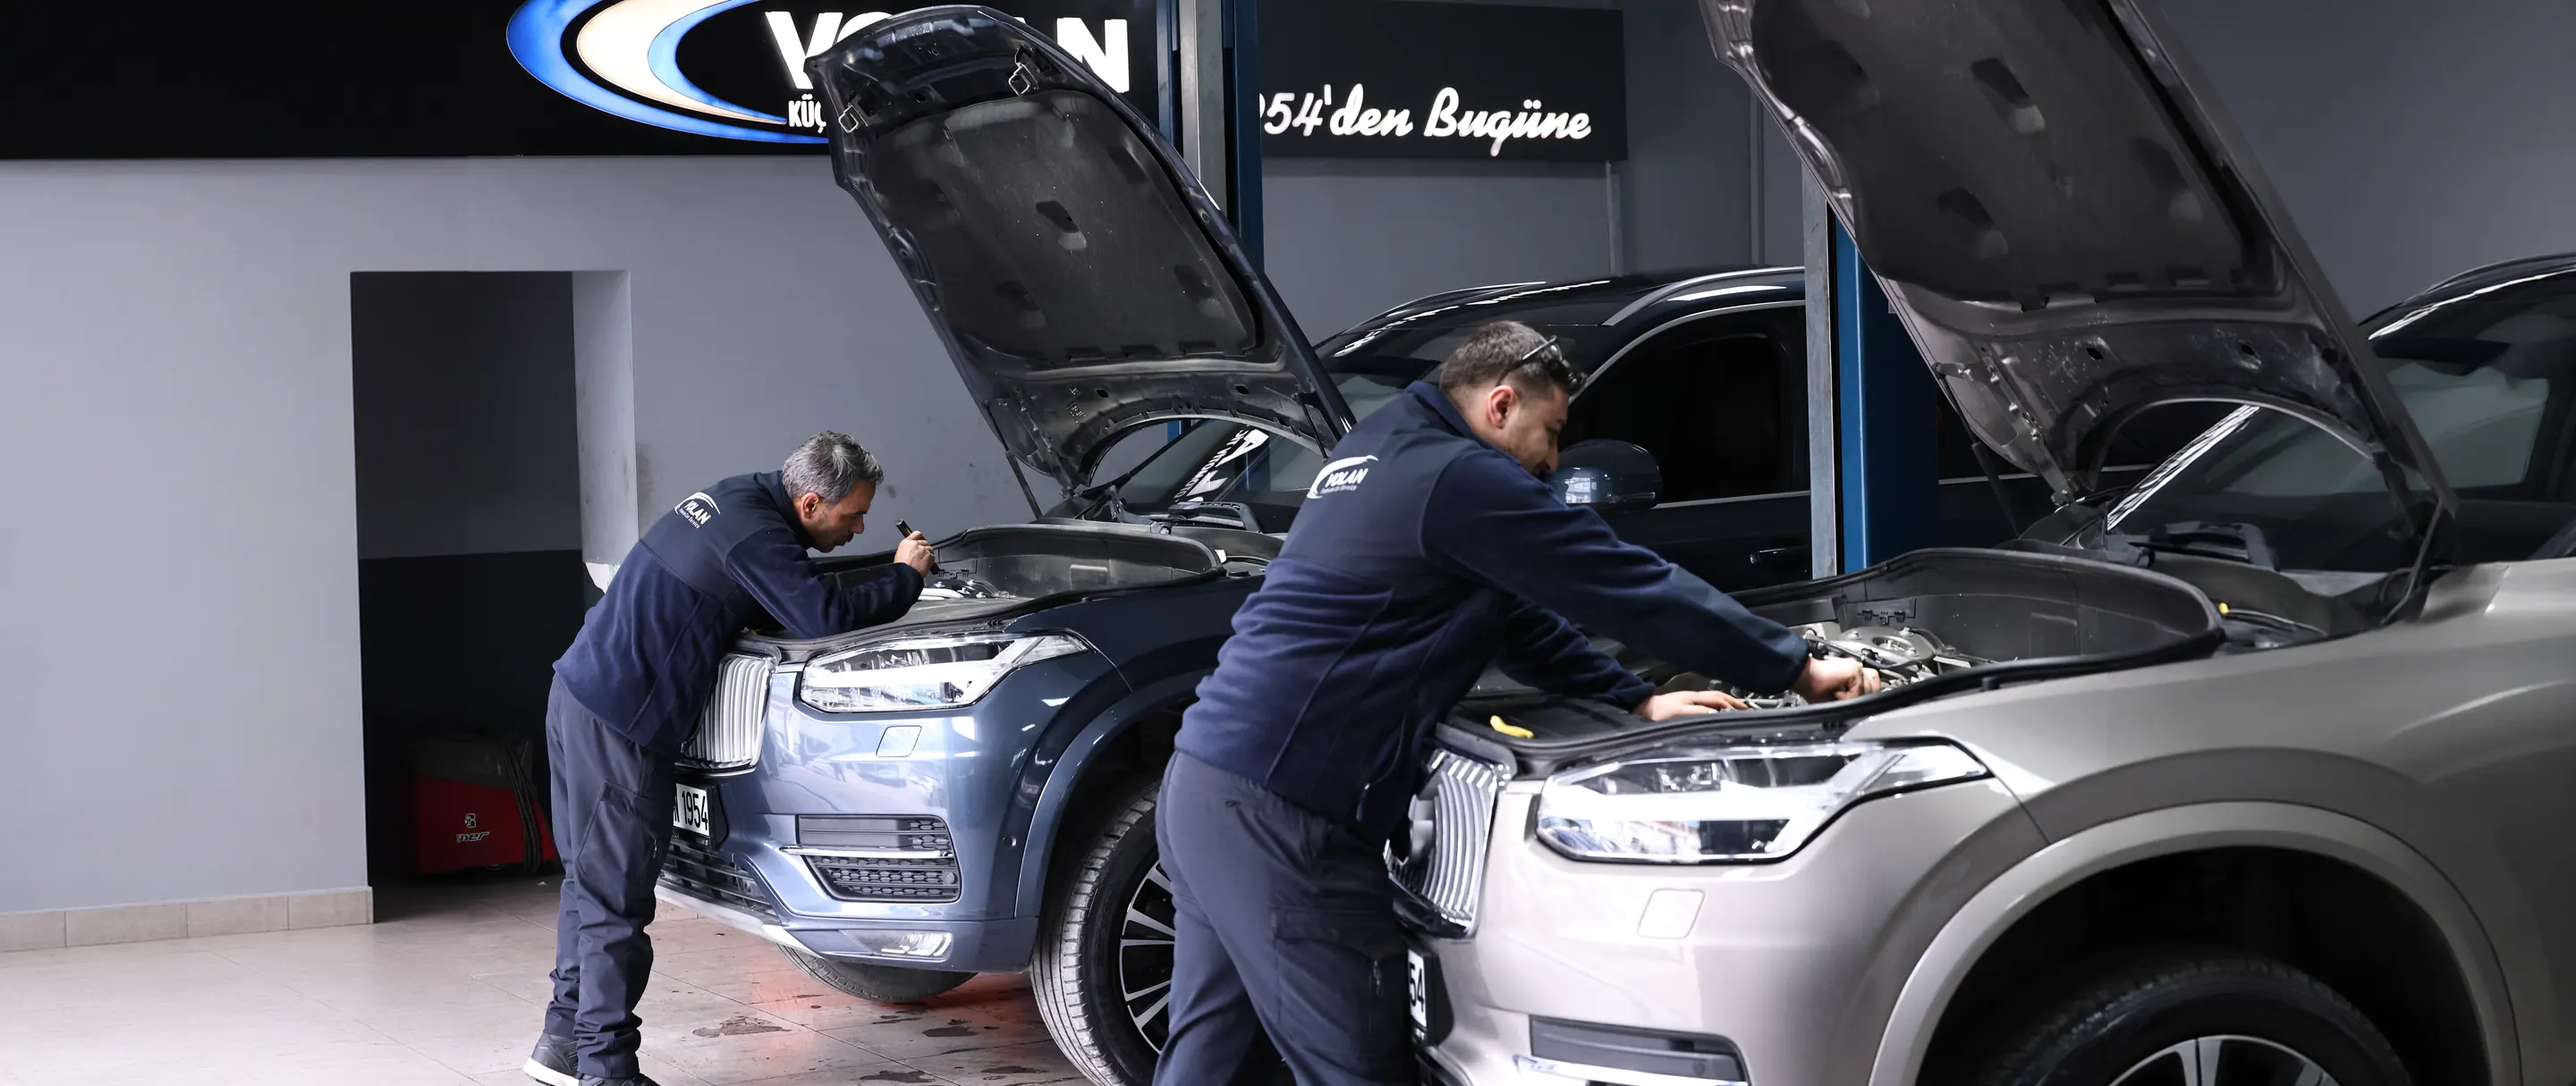
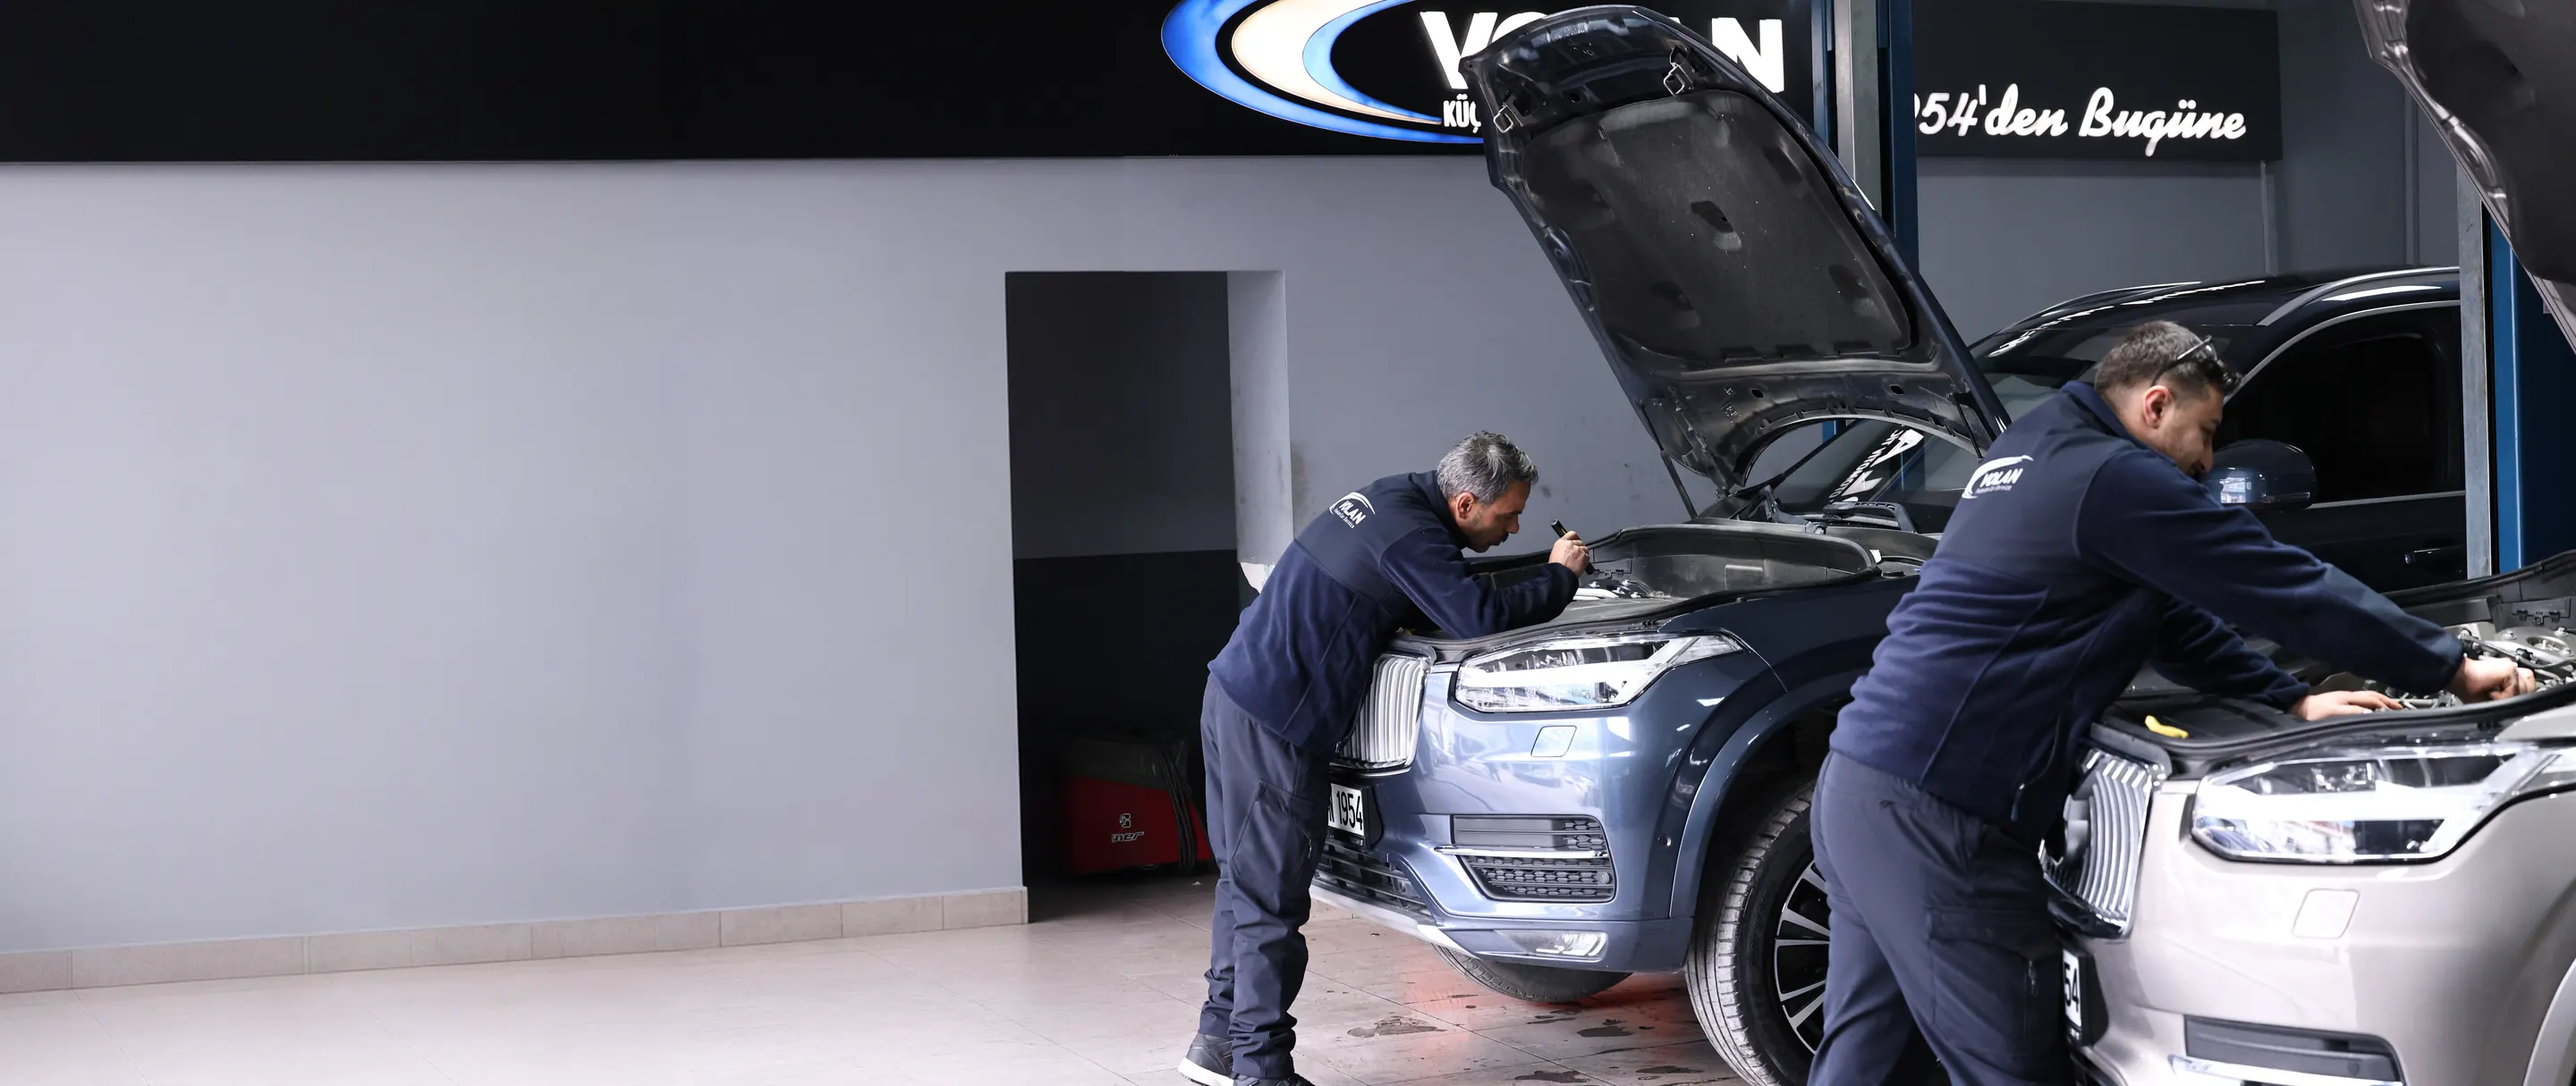
Ana sayfa: güneşli cephe, sola genişletilmiş atölye karesi, Mercedes ve Volkswagen fotoğrafları
Giriş bina fotoğrafı güneşli sürümle değişti (sokak lambaları ve direk kaldırıldı).
Atölye slaytında ustalar metin kartının sağında kalıyor. Marka bölümünde
Mercedes-Benz C Serisi, Volkswagen Polo ve Passat fotoğrafları (Wikimedia Commons, CC0).

Claude-Session: https://claude.ai/code/session_011V1tYmJ3QFNpRwcNmf1kc7

diff --git a/index.html b/index.html
@@ -147,8 +147,8 @@
         <div class="print__img">
           <picture>
             <source media="(max-width: 599px)" srcset="assets/img/anasayfa/hero-bina-kasim-dikey.webp" width="800" height="1000">
-            <source media="(max-width: 899px)" srcset="assets/img/anasayfa/hero-bina-kasim-dar.webp" width="800" height="500">
-            <img src="assets/img/anasayfa/hero-bina-kasim-genis.webp" width="2880" height="1235" alt="Volan Otomotiv binası gündüz: Oto Kuaför, Mekanik 1 ve Mekanik 2 kapıları, ortada VOLAN tabelası ve “Since 1954” yazılı giriş, önünde park etmiş araçlar.">
+            <source media="(max-width: 899px)" srcset="assets/img/anasayfa/hero-bina-gunes-dar.webp" width="1600" height="800">
+            <img src="assets/img/anasayfa/hero-bina-gunes.webp" width="2880" height="1235" alt="Volan Otomotiv binası güneşli bir günde: Oto Kuaför, Mekanik 1 ve Mekanik 2 kapıları, ortada VOLAN tabelası ve “Since 1954” yazılı giriş.">
           </picture>
         </div>
       </figure>
@@ -565,11 +565,18 @@
         <h3>Mercedes-Benz</h3>
         <p>Mercedes-Benz’inizin bakımını ve onarımını markanın servis prosedürlerine ve üretici tavsiyelerine göre yaparız.</p>
         <span class="typed">Yıllık bakım · arıza tespiti · mekanik onarım</span>
+        <div class="note__photos">
+          <figure class="plate"><img src="assets/img/anasayfa/marka-mercedes-c-serisi.webp" width="1200" height="800" loading="lazy" alt="Beyaz bir Mercedes-Benz C Serisi sedan, yandan görünüş."></figure>
+        </div>
       </div>
       <div class="note" data-marka-note="vw">
         <h3>Volkswagen</h3>
         <p>Volkswagen’inizin bakım ve onarımında markanın servis prosedürlerine ve üreticinin tavsiyelerine uyarız.</p>
         <span class="typed">Yıllık bakım · arıza tespiti · mekanik onarım</span>
+        <div class="note__photos note__photos--2">
+          <figure class="plate"><img src="assets/img/anasayfa/marka-vw-polo.webp" width="1200" height="800" loading="lazy" alt="Kırmızı bir Volkswagen Polo, önden görünüş."></figure>
+          <figure class="plate"><img src="assets/img/anasayfa/marka-vw-passat.webp" width="1200" height="800" loading="lazy" alt="Mavi bir Volkswagen Passat sedan, önden görünüş."></figure>
+        </div>
       </div>
     </div>
 

diff --git a/assets/css/anasayfa/marka.css b/assets/css/anasayfa/marka.css
@@ -46,6 +46,12 @@
 .s-marka .note__more[open] summary { display: none; }
 .s-marka .note__more summary:focus-visible { outline: 2px solid var(--navy); outline-offset: 4px; }
 .s-marka .note .typed { display: block; margin-top: 16px; padding-top: 10px; border-top: 1.5px solid var(--rule-strong); color: var(--ink-soft); font-size: 0.9375rem; line-height: 1.45; }
+/* Mercedes-Benz and Volkswagen notes are short; a car photo (two for Volkswagen) fills the room
+   the longer Volvo note takes. */
+.s-marka .note__photos { display: flex; gap: 14px; margin-top: 18px; }
+.s-marka .note__photos .plate { flex: 1 1 0; max-width: 260px; margin: 0; transform: rotate(-1deg); }
+.s-marka .note__photos .plate + .plate { transform: rotate(1.2deg); }
+.s-marka .note__photos img { aspect-ratio: 3 / 2; object-fit: cover; }
 
 /* The promise: a quote form */
 .s-marka .form { grid-column: 9 / span 4; grid-row: 2 / span 2; align-self: start; padding: 22px 24px 32px; transform: rotate(0.6deg); }

diff --git a/assets/img/LISANS-stok.md b/assets/img/LISANS-stok.md
@@ -1,0 +1,48 @@
+# media/stok — stock photo licences
+
+All files downloaded on 2026-11-27, resized by the source CDN to 2000 x 1333 px (JPEG).
+None of these photos shows Volan Otomotiv, its staff or its customers' cars.
+
+Licences used:
+
+- **Pexels License** — https://www.pexels.com/license/ — free for commercial use, no payment, credit not required (appreciated).
+- **Unsplash License** — https://unsplash.com/license — free for commercial use, no payment, credit not required (appreciated). The Unsplash photos below are regular free photos, not Unsplash+.
+
+Both licences forbid selling the unaltered photo and implying that a person or brand in the photo endorses the business. No credit text is required for any file; the "optional credit" column is only a courtesy line.
+
+| File | Source page | Photographer | Licence | Required credit | Optional credit | Description / what a visitor could notice as "not Volan" |
+|---|---|---|---|---|---|---|
+| cekici-1.jpg | https://www.pexels.com/photo/a-tow-truck-crane-carrying-vintage-car-while-moving-on-the-road-8931961/ | Sami Aksu | Pexels License | none | Photo: Sami Aksu / Pexels | Orange flatbed tow truck carrying a vintage American car on a Turkish street. Readable Turkish plate "34 EIF 81" (Istanbul, not Ankara) and the word "GÜVEN" on the truck. No faces. |
+| cekici-2.jpg | https://www.pexels.com/photo/a-car-on-a-tow-truck-17429097/ | Jonathan Reynaga | Pexels License | none | Photo: Jonathan Reynaga / Pexels | White GMC pickup being loaded on a tilted flatbed; worker crouching, seen from behind (no face). "DURAN" lettering on the bed, a company logo and phone number on the worker's jacket, Ford mud flaps. Vehicle and setting are clearly not Turkish. No plate visible. |
+| cekici-3.jpg | https://www.pexels.com/photo/classic-black-muscle-car-on-flatbed-truck-40273534/ | Eddie Oliveira | Pexels License | none | Photo: Eddie Oliveira / Pexels | Black classic Dodge Charger on a turquoise flatbed in a sunny residential street. Foreign (South American looking) street, small yellow sticker with text on the truck bed, American muscle car. No faces, no readable plate. |
+| mercedes-1.jpg | https://unsplash.com/photos/silver-car-on-hydraulic-lift-PwI7BA_J06k | SL Autowerkes | Unsplash License | none | Photo: SL Autowerkes / Unsplash | Silver modern Mercedes-Benz on a two-post lift with the bonnet open. No plate, no faces, no signage. **Note: the uploader "SL Autowerkes" appears to be another workshop, so this is very likely a photo of their garage.** The licence allows the use, but it is another garage's interior. |
+| mercedes-2.jpg | https://www.pexels.com/photo/mechanic-working-on-luxury-car-in-modern-garage-36281956/ | Dextar Studio | Pexels License | none | Photo: Dextar Studio / Pexels | Mechanic leaning over the engine bay of a modern Mercedes-Benz saloon in a bright, clean workshop. **The mechanic's face is visible in profile (bearded man), and an "AMG" sign is visible on the back wall** — it looks like an authorised-dealer workshop, not an independent garage. No plate. |
+| mercedes-3.jpg | https://unsplash.com/photos/a-car-with-its-hood-open-in-a-garage-Yz2_-FlRUNQ | Damian Barczak | Unsplash License | none | Photo: Damian Barczak / Unsplash | Classic Mercedes-Benz SL ("Pagoda") with the bonnet open in a garage with covered cars behind it. Classic car, not a daily customer car. A foreign front plate is partly visible at the left edge (crop it out). No faces. |
+| vw-1.jpg | https://www.pexels.com/photo/black-and-silver-car-engine-bay-4116207/ | Jose Ricardo Barraza Morachis | Pexels License | none | Photo: Jose Ricardo Barraza Morachis / Pexels | Open bonnet of a white Volkswagen saloon (VW badge clear) with a diagnostic tablet and rags on the engine; a hand holding a phone at the right edge. Outdoor/yard setting, not a workshop hall. Older Latin-American-market model. No plate, no face. |
+| vw-2.jpg | https://www.pexels.com/photo/mechanic-working-with-car-engine-13065692/ | Daniel Andraski | Pexels License | none | Photo: Daniel Andraski / Pexels | Close-up of gloved hands holding a battery/diagnostic tester over a Volkswagen TSI engine (VW logo on the engine cover). Tool brand "alfatest" readable on the device. No face, no plate. |
+| vw-3.jpg | https://unsplash.com/photos/an-orange-car-is-parked-in-a-garage-qyZk3H8B4RQ | Tommy Anderson | Unsplash License | none | Photo: Tommy Anderson / Unsplash | Orange classic Volkswagen Beetle standing between lift posts in a cluttered workshop. Classic car; a small US flag sticker is visible on the right lift post; workshop looks American. No plate, no faces. |
+
+## Notes
+
+- Searched Pexels, Unsplash and Wikimedia Commons. Wikimedia had no suitable landscape photo under CC0 / public domain / CC BY for these three subjects, so no CC BY file is used and no attribution is mandatory.
+- Pixabay was not searched.
+- No free photo was found of a modern Volkswagen on a lift inside a workshop; the three VW files are the closest matches (two engine-bay service shots, one classic Beetle in a workshop).
+- Candidates looked at and dropped: US tow trucks with company branding and phone numbers, photos with readable foreign plates (Hong Kong, Mexico, Netherlands), a crash scene, cars in showrooms or museums, and Unsplash+ (paid) photos.
+
+## Model photos added on 2026-11-27 (Mercedes C-Class, VW Polo, VW Passat)
+
+All seven files come from Wikimedia Commons (3840 px wide thumbnails; `vw-passat-1.jpg` is the 2435 px original). All are CC0 1.0 or released into the public domain by the author, so commercial use is allowed and **no credit is required**. Licence and author were taken from the Commons file metadata; the original Flickr pages of the four Flickr imports were not opened to cross-check.
+
+Pexels, Unsplash and Pixabay were not searched for these: all three answered automated requests with a bot challenge, and the challenge was not bypassed.
+
+| File | Source page | Author | Licence | Required credit | Description / things to notice |
+|---|---|---|---|---|---|
+| mercedes-c-1.jpg | https://commons.wikimedia.org/wiki/File:2014_Mercedes-Benz_C_200_(W_205)_sedan_(2015-06-15)_01.jpg | OSX (Commons user) | Public domain (released by author) | none | Mercedes-Benz C 200, W205 (2014) sedan, light silver-blue, front three-quarter view, parked on a street in Australia. **Readable plate "ADM-544" (Victoria, Australia).** Right-hand-drive market. No faces, no signage. |
+| mercedes-c-2.jpg | https://commons.wikimedia.org/wiki/File:Mercedes-Benz_C_200_(W206,_2023)_(54708506199).jpg | Charles from Port Chester, New York (Flickr import) | CC0 1.0 | none | Mercedes-Benz C 200, W206 (2023) sedan, dark grey, seen from above on a road with shrubs in front; the car is small in the frame. Plate already blanked in the source. Driver not recognisable. |
+| mercedes-c-3.jpg | https://commons.wikimedia.org/wiki/File:Mercedes-Benz_C_300_e_(W206,_2025)_(54863904821).jpg | Charles from Port Chester, New York (Flickr import) | CC0 1.0 | none | Mercedes-Benz C 300 e, W206 (2025) sedan, white with black roof, side/front view on a road in front of a mesh fence. Plate small and not readable at normal size (not checked at full zoom). Driver visible through glass, not recognisable. |
+| vw-polo-1.jpg | https://commons.wikimedia.org/wiki/File:Volkswagen_Polo_1.0_TSI_R-Line_(2024)_(54708481198).jpg | Charles from Port Chester, New York (Flickr import) | CC0 1.0 | none | Volkswagen Polo Mk6 facelift (2024) R-Line, red with black roof, seen from above on a road. Plate already blanked in the source. Two occupants behind glass, not recognisable. |
+| vw-polo-2.jpg | https://commons.wikimedia.org/wiki/File:VW_Polo_Dutch_forces_in_Germany_plate_(49728525637).jpg | crash71100 (Flickr import) | CC0 1.0 | none | Volkswagen Polo Mk6 (2019) R-Line, white, front three-quarter view, parked on a brick street in front of brick houses. **Readable plate "ET 409 N" with "AUTOSTADT" on the plate frame**; house number 37 on the wall. No faces. |
+| vw-passat-1.jpg | https://commons.wikimedia.org/wiki/File:Volkswagen_Passat_101304.jpg | Trop86 (Commons user) | CC0 1.0 | none | Volkswagen Passat B8 sedan, blue, front three-quarter view, parked on a lot with trees behind. German plate pixelated in the source; small dealer text on the plate frame. 2435 x 1932 px. No faces. |
+| vw-passat-2.jpg | https://commons.wikimedia.org/wiki/File:2015_Volkswagen_Passat_(3G_MY16)_132TSI_station_wagon_(2015-11-11)_01.jpg | OSX (Commons user) | Public domain (released by author) | none | Volkswagen Passat B8 **station wagon** (2015), white, front three-quarter view, parked on a street in Australia. **Readable plate "WSD 75V" (New South Wales, Australia).** Right-hand-drive market. No faces. |
+
+Plates were not blurred or edited in any of these files.
